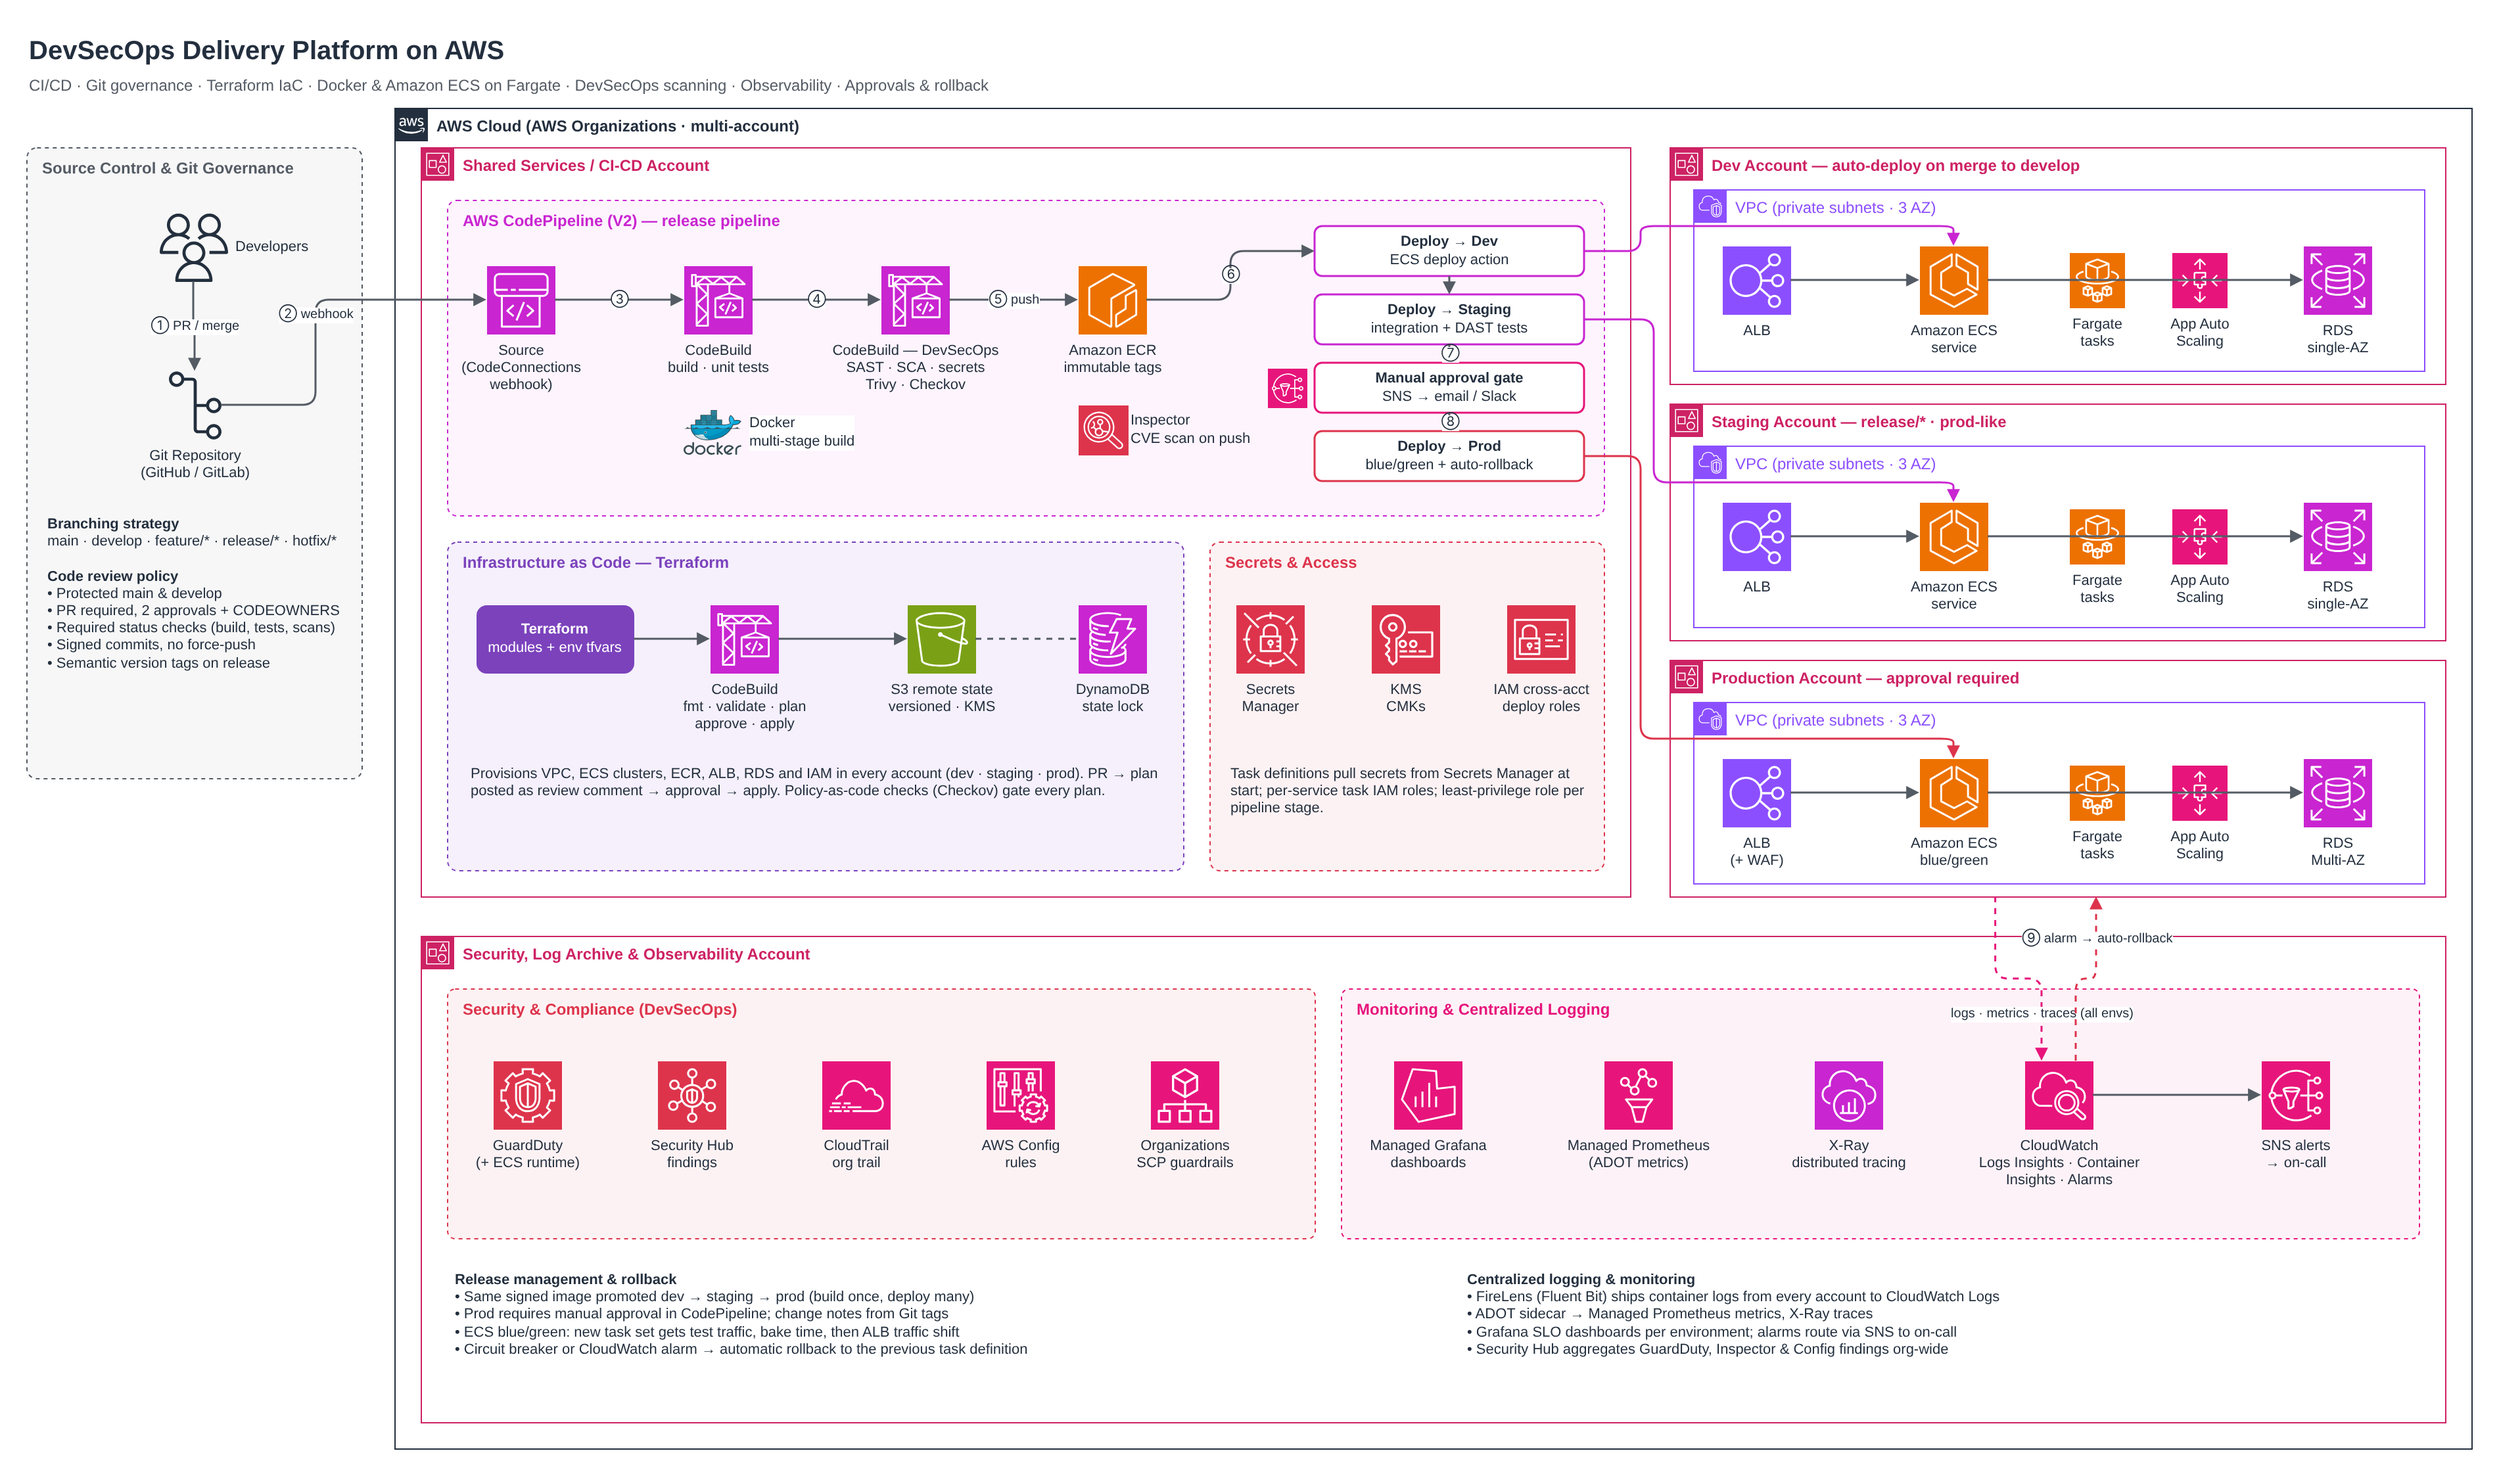
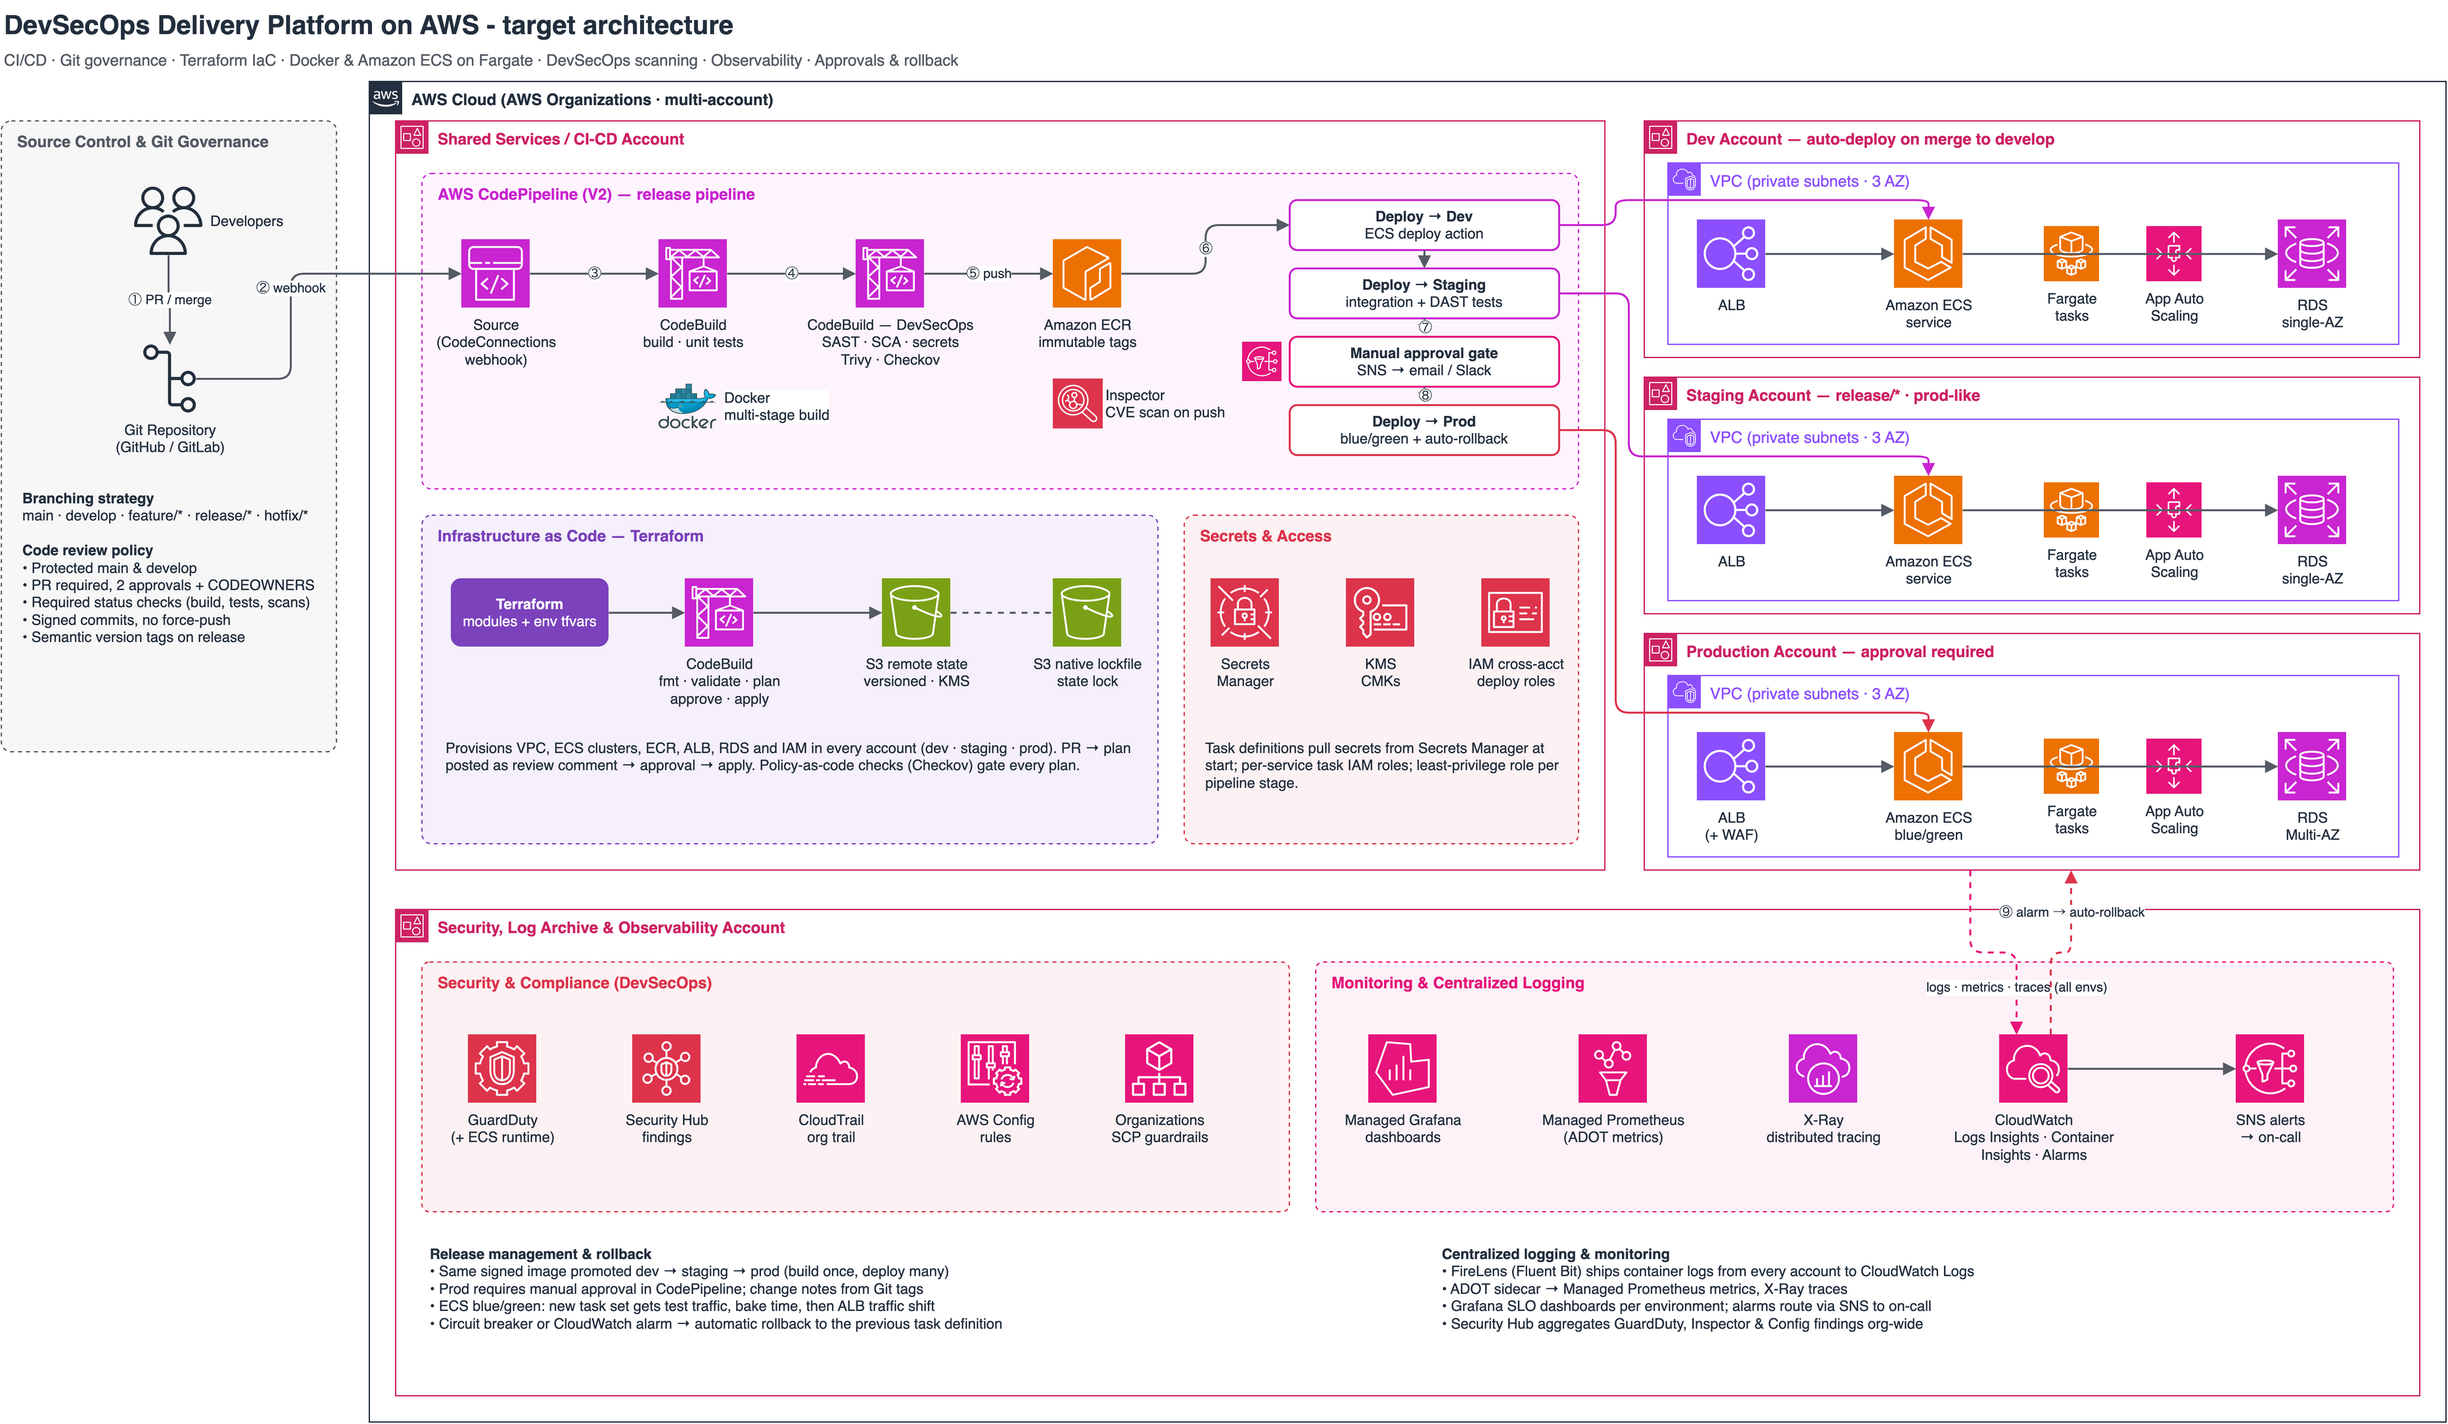
docs: Add runbooks, ordered teardown and progress
Operating the platform depended on knowledge from the build sessions.
Runbooks now cover releases and approvals, rollback, infrastructure
changes, secret rotation, onboarding a service, and teardown.
make destroy-all removes prod, staging, dev, security and shared in
that order and leaves bootstrap, which holds the state, to a manual
procedure. The README marks the headline diagram as the target design
and lists how the build differs from it. PROGRESS.md records the final
state and how to rebuild.

diff --git a/docs/runbooks/release-and-approval.md b/docs/runbooks/release-and-approval.md
@@ -1,0 +1,43 @@
+# Release and approval
+
+The release pipeline `devsecops-hello-service-release` builds once and promotes the same image:
+staging (blue/green, smoke, OWASP ZAP) -> manual approval -> prod (blue/green, smoke).
+
+## Before you start
+
+- Staging and prod are created on demand: `make tf-plan ENV=staging && make tf-apply ENV=staging`, then the
+  same for `prod` (about 15 minutes, RDS is the slow part).
+- The approval email subscription must be confirmed once.
+
+## Cut and ship a release
+
+```sh
+git checkout develop && git pull
+git checkout -b release/0.3.0
+(cd app && npm version minor --no-git-tag-version)
+git commit -am "chore: Bump version to 0.3.0"
+git push -u origin release/0.3.0
+```
+
+1. The push starts the pipeline. Staging gets the image, the smoke test and the ZAP baseline.
+2. You receive an approval email. Check staging (`https://staging.<zone>/`), then approve or reject in the
+   CodePipeline console (stage ApproveProd, Review). Approvals expire after 24 hours.
+3. Prod deploys blue/green with a 10 minute bake. Alarms during the bake roll it back automatically.
+4. After prod is healthy, merge and tag:
+
+```sh
+git checkout main && git pull && git merge --no-ff release/0.3.0 && git tag v0.3.0
+git push origin main v0.3.0
+git checkout develop && git merge --no-ff release/0.3.0 && git push origin develop
+```
+
+## Fixing a release
+
+Commit the fix on the `release/*` branch and push; the pipeline runs again from the start. Back-merge the
+fix into `develop` afterwards.
+
+## When the ZAP gate fails
+
+Read the warnings in the `DastBaseline` build log. Fix the app, or, if the rule does not apply, set it to
+`IGNORE` in `scripts/security/zap-baseline.conf` with the reason after a tab. Never ignore a rule
+without a reason.

diff --git a/docs/runbooks/rollback.md b/docs/runbooks/rollback.md
@@ -1,0 +1,39 @@
+# Rollback
+
+## Automatic
+
+Every service has three deployment alarms: target 5xx (5 or more per minute), unhealthy tasks, and p99
+latency above 1.5 s for 3 minutes. If one fires while a deployment is in progress, including the blue/green
+bake time, ECS rolls back to the previous revision. Tasks that never become healthy are rolled back by the
+circuit breaker.
+
+Confirm what happened:
+
+```sh
+aws ecs list-service-deployments --cluster devsecops-<env> --service hello-service --max-results 3
+aws ecs describe-service-deployments --service-deployment-arns <arn> \
+  --query 'serviceDeployments[0].[status,statusReason,alarms.triggeredAlarmNames]'
+```
+
+Alarms only roll back during a deployment. Detection takes about 3 minutes, which is why the bake is 5
+minutes in staging and 10 in prod. Do not shorten the bake below that.
+
+## Manual, after a deployment completed
+
+1. Find the last good image tag: `aws ecr describe-images --repository-name hello-service` or the SSM
+   parameter history `aws ssm get-parameter-history --name /devsecops/<env>/hello-service/image-tag`.
+2. Point the service at the last good task definition revision:
+
+```sh
+aws ecs update-service --cluster devsecops-<env> --service hello-service \
+  --task-definition devsecops-<env>-hello-service:<revision>
+```
+
+3. Record the tag so Terraform keeps it:
+   `aws ssm put-parameter --name /devsecops/<env>/hello-service/image-tag --value <tag> --type String --overwrite`
+4. Fix forward on a branch; the next release replaces the rollback.
+
+## Prove it
+
+`scripts/ops/rollback-drill.sh devsecops-staging hello-service https://staging.<zone>` deploys a revision
+that passes `/health` but returns 500, sends traffic and expects ECS to roll back (about 6 minutes).

diff --git a/docs/runbooks/teardown-and-rebuild.md b/docs/runbooks/teardown-and-rebuild.md
@@ -1,0 +1,40 @@
+# Teardown and rebuild
+
+## Order
+
+Destroy in reverse dependency order: prod, staging, dev, security, shared, then bootstrap last.
+
+```sh
+make destroy-all
+```
+
+`destroy-all` destroys prod, staging, dev, security and shared in that order, asking for confirmation at
+each step, and stops before bootstrap.
+
+## Nightly cost saving
+
+Destroy only the workloads and keep shared, security and bootstrap:
+
+```sh
+make tf-destroy ENV=prod && make tf-destroy ENV=staging && make tf-destroy ENV=dev
+```
+
+Rebuild dev with `make tf-plan ENV=dev && make tf-apply ENV=dev` (about 12 minutes).
+
+## Destroying shared: things to redo afterwards
+
+- The Route 53 zone is deleted. A new zone gets new name servers, so update the NS records at the
+  registrar.
+- The CodeConnections GitHub connection is deleted. After recreating it, complete the handshake in the
+  console and choose the GitHub App installation.
+- ECR images are deleted (`ecr_force_delete = true`).
+
+## Destroying bootstrap
+
+The state bucket has `prevent_destroy` and holds its own state. Only when nothing else remains:
+
+1. Copy `infra/aws/bootstrap/backend.tf` aside and remove the `backend "s3"` block, then
+   `terraform -chdir=infra/aws/bootstrap init -migrate-state` to move its state to a local file.
+2. Remove `prevent_destroy` from the bucket, empty all object versions, and run
+   `terraform -chdir=infra/aws/bootstrap destroy`.
+3. Restore `backend.tf`.

diff --git a/docs/runbooks/secret-rotation.md b/docs/runbooks/secret-rotation.md
@@ -1,0 +1,30 @@
+# Secret rotation
+
+The database master password is an RDS-managed secret in Secrets Manager, rotated every 7 days.
+
+The app reads it at connection time (`DB_SECRET_ARN`), caches it for 5 minutes and drops the cache when
+Postgres rejects it, so running tasks pick up a rotated password without a redeploy. Only the task role of
+that environment can read the secret.
+
+## Rotate now (suspected leak)
+
+```sh
+arn=$(terraform -chdir=infra/aws/envs/<env> output -raw db_secret_arn)
+aws secretsmanager rotate-secret --secret-id "$arn"
+aws secretsmanager describe-secret --secret-id "$arn" --query '[LastRotatedDate,NextRotationDate]'
+curl -fsS https://<env-host>.<zone>/items
+```
+
+A few requests may fail while existing connections are replaced; they recover on the next connection.
+
+## Check
+
+- `aws secretsmanager describe-secret --secret-id "$arn" --query RotationEnabled` returns `true`.
+- CloudTrail records `RotateSecret` and `GetSecretValue` calls (`devsecops-security` trail).
+
+## Other secrets
+
+Secrets added through the `secrets` module live under `devsecops-<env>/`, encrypted with the environment
+KMS key. Rotate the value at its source, update the secret, then force a new deployment
+(`aws ecs update-service --cluster devsecops-<env> --service <service> --force-new-deployment`) unless the
+app reads it at runtime.

diff --git a/README.md b/README.md
@@ -4,9 +4,19 @@ Reference implementation of a DevSecOps delivery platform: Git governance, Terra
 Amazon ECS on Fargate, DevSecOps scanning, observability, approvals and rollback, built around a tiny
 Node.js sample app.
 
-![Architecture](docs/architecture/aws-devsecops-cicd-ecs.png)
+![Target architecture](docs/architecture/aws-devsecops-cicd-ecs.png)
+
+The diagram above is the target multi-account design. The sections below show what is built today.
+
+| Target | As built |
+|---|---|
+| Separate shared, dev, staging, prod and security accounts | One account; every root accepts `deploy_role_arn` to split later |
+| Terraform plan posted as a PR comment | Plan summary in the approval email, full plan in the build log |
+| Grafana, Prometheus, X-Ray, FireLens | CloudWatch alarms, dashboards and Container Insights |
+| SCPs on workload accounts | Documented in `docs/security/scp`, not attached (management account) |
 
 - Build plan and progress: [PLAN.md](PLAN.md)
+- Runbooks (release, rollback, infra change, secret rotation, teardown): [docs/runbooks/](docs/runbooks/)
 - Git branching and review rules: [docs/git-governance.md](docs/git-governance.md)
 - Architecture diagrams (ECS and EKS, draw.io sources included): [docs/architecture/](docs/architecture/)
 

diff --git a/docs/runbooks/infrastructure-change.md b/docs/runbooks/infrastructure-change.md
@@ -1,0 +1,18 @@
+# Infrastructure change
+
+Workload environments (dev by default, see `infra_pipeline_environments` in `envs/shared`) change only
+through the `devsecops-infra` pipeline.
+
+1. Change Terraform on a `feature/*` branch. Run `terraform fmt -recursive infra` and `make tf-plan ENV=dev`
+   locally to preview.
+2. Merge into `develop`. The pipeline runs fmt, validate and Checkov, then plans with read-only credentials.
+3. The approval email shows the plan summary, for example `dev: Plan: 0 to add, 1 to change, 0 to destroy`.
+   The full plan is in the Plan build log. Approve only what you expect.
+4. Apply runs exactly the approved plan.
+
+The pipeline refuses to plan or apply while an app deployment is in flight, and refuses a plan made before
+a newer app release ("Plan is stale"). Wait for the app pipeline, then start the infra pipeline again:
+`aws codepipeline start-pipeline-execution --name devsecops-infra`.
+
+Bootstrap, `envs/shared` (holds the pipelines) and `envs/security` are applied by hand with
+`make tf-plan ENV=<root> && make tf-apply ENV=<root>`. The pipeline is denied their state.

diff --git a/docs/runbooks/onboard-new-service.md b/docs/runbooks/onboard-new-service.md
@@ -1,0 +1,12 @@
+# Onboarding a new service
+
+The platform is built around one service, but every piece is a module.
+
+1. App: a directory with a Dockerfile that has a `test` target, listens on `PORT` and serves `/health`.
+2. Image repository: add a `module "ecr"` block in `envs/shared` for the new name.
+3. Service: in `modules/app-environment`, add a second `module "ecs-service"` (own ALB or a listener rule
+   on the existing one), its alarms come with the module.
+4. Pipeline: add a `module "pipeline"` instance in `envs/shared` with `trigger_file_paths` for the new
+   directory and the target environments; the security, build and smoke stages are reused.
+5. Security: the same `scripts/security` gates run unchanged; extend `zap-baseline.conf` only with reasons.
+6. Docs: update the architecture diagrams in `docs/architecture` and this runbook if anything differs.

diff --git a/docs/runbooks/README.md b/docs/runbooks/README.md
@@ -1,0 +1,13 @@
+# Runbooks
+
+| Runbook | Use when |
+|---|---|
+| [Release and approval](release-and-approval.md) | Shipping a version to staging and prod |
+| [Rollback](rollback.md) | A deployment misbehaves or an alarm fires |
+| [Infrastructure change](infrastructure-change.md) | Changing Terraform for a workload environment |
+| [Secret rotation](secret-rotation.md) | Rotating the database password or reacting to a leak |
+| [Onboarding a new service](onboard-new-service.md) | Adding a second container service |
+| [Teardown and rebuild](teardown-and-rebuild.md) | Saving cost overnight or removing everything |
+
+Commands assume the repo root, a `.env` with `TF_VAR_dns_zone_name`, `TF_VAR_approval_emails` and
+`TF_VAR_alert_emails`, and AWS credentials for the account.
